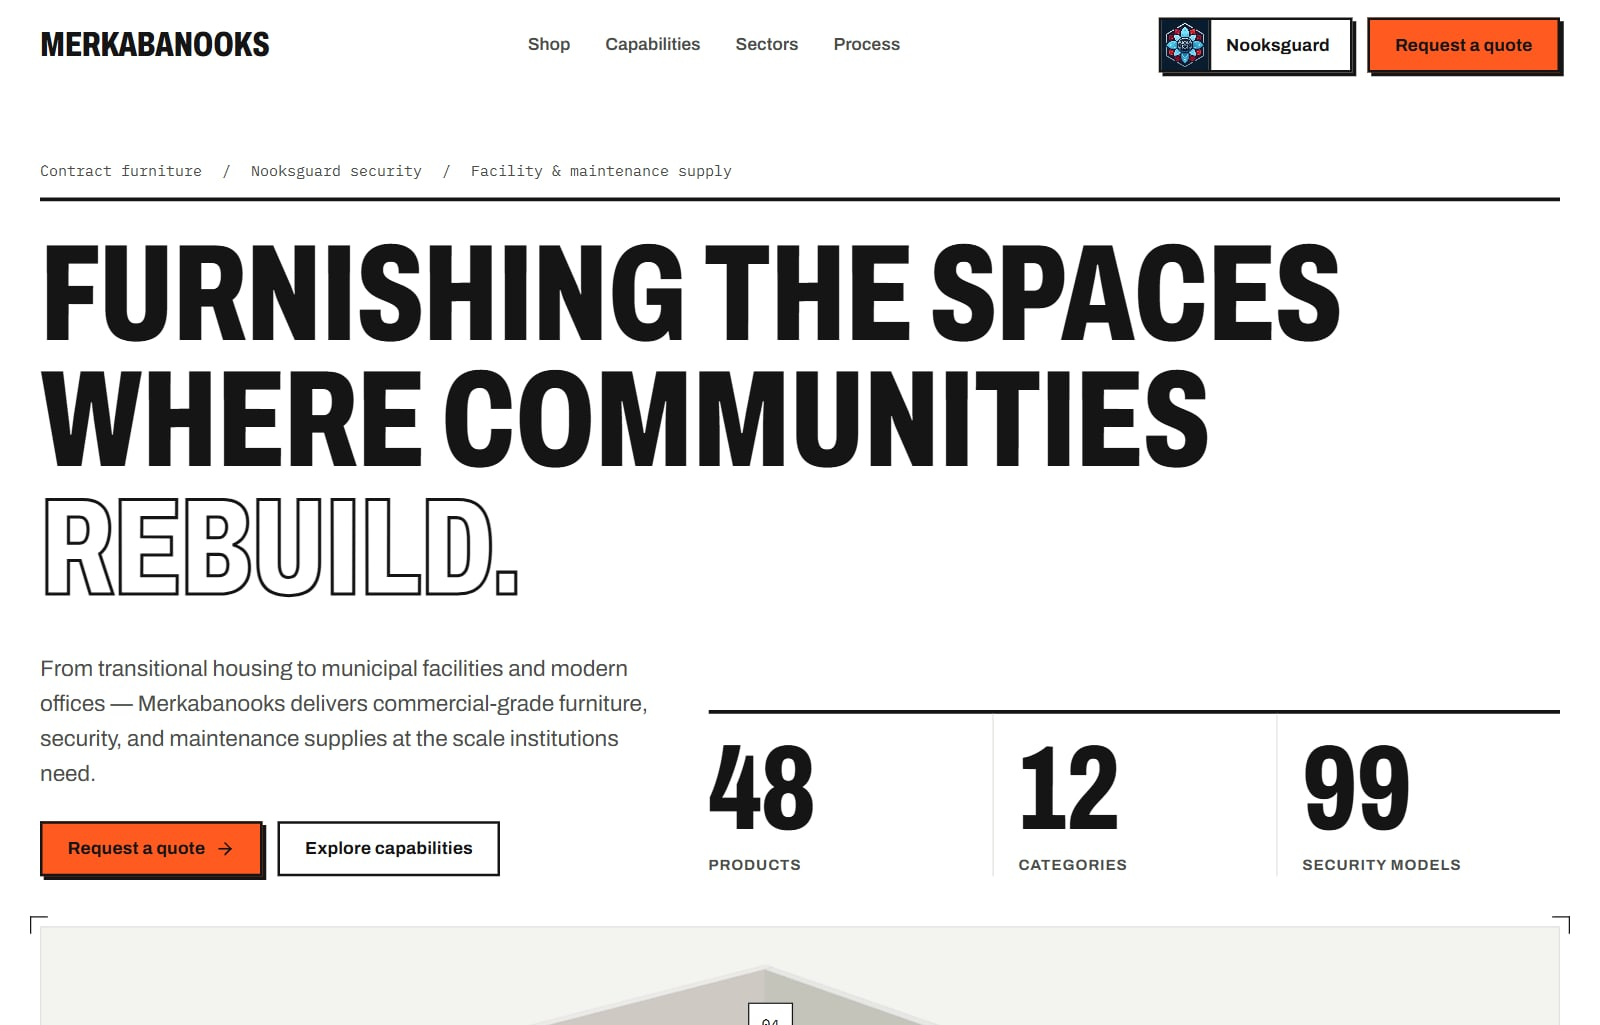
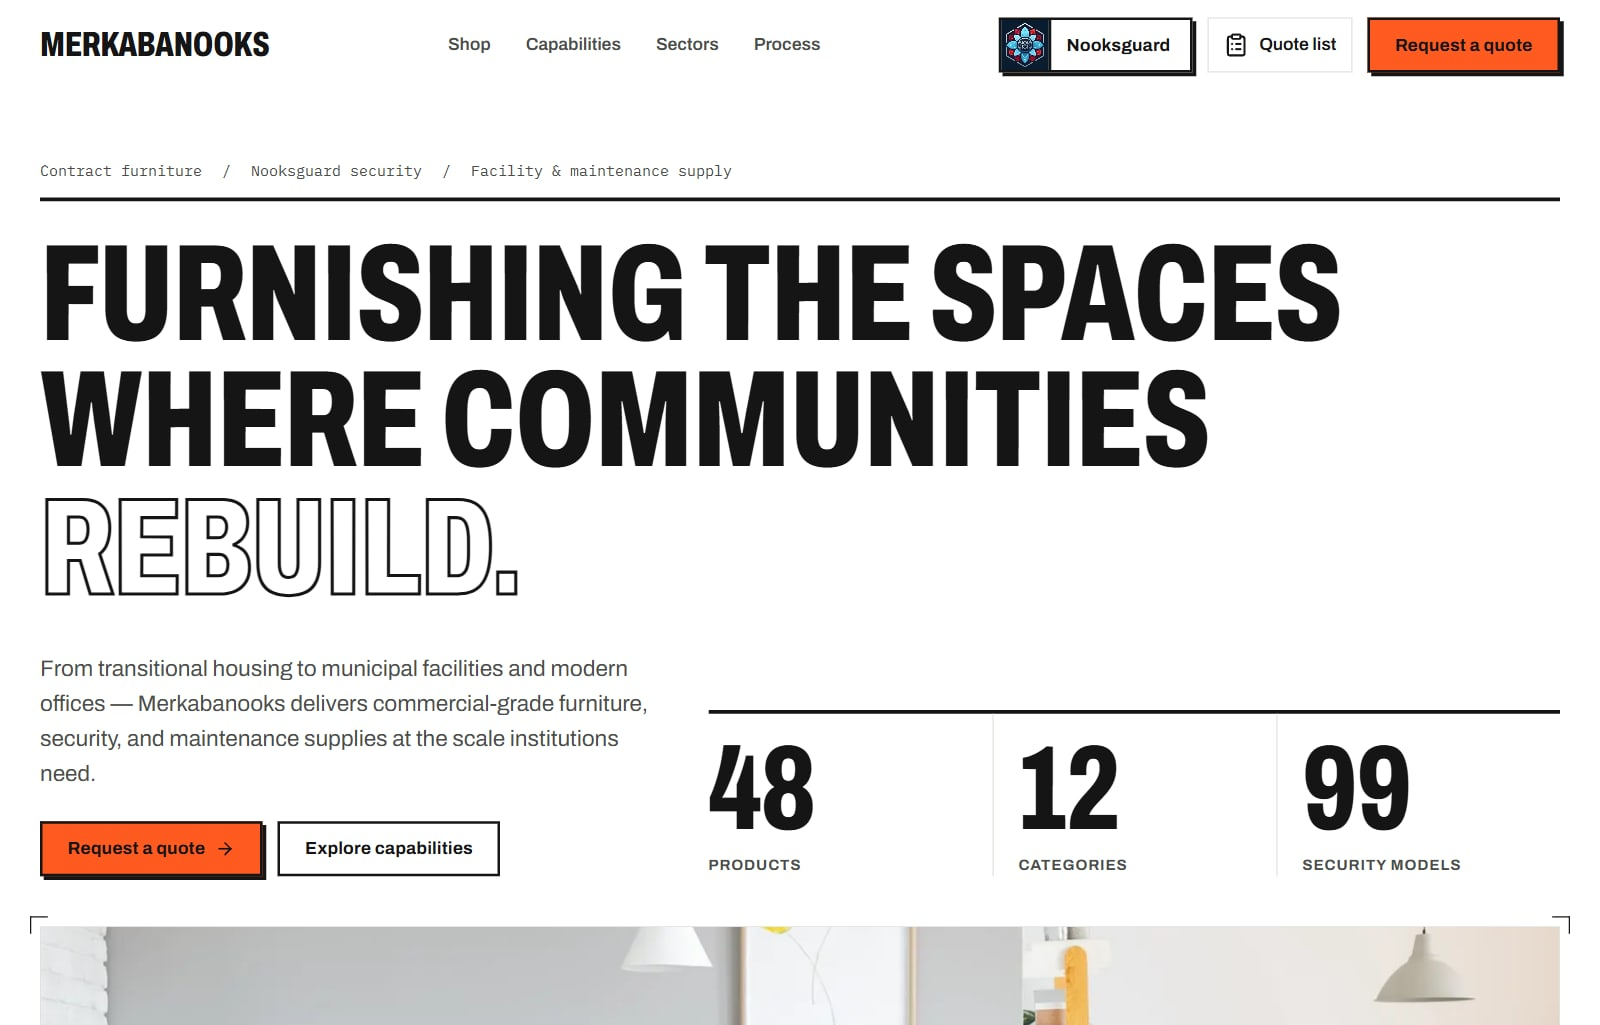
Showcase: interactive room photo replaces the 3D room

diff --git a/index.html b/index.html
@@ -232,7 +232,7 @@
 
     <div class="hero-meta">
       <div class="hero-copy">
-        <p class="lede">A bolder look on a clean white page, a live 3D room, a zoomable view of every real product, real product photos and the complete Nooksguard security catalog. The new site is live now.</p>
+        <p class="lede">A bolder look on a clean white page, an interactive room photo, a zoomable view of every real product, real product photos and the complete Nooksguard security catalog. The new site is live now.</p>
         <a class="btn-live" href="https://merkabanooks.vercel.app" target="_blank" rel="noopener">Visit the live site <span aria-hidden="true">→</span></a>
         <span class="mono live-url">merkabanooks.vercel.app</span>
       </div>
@@ -261,7 +261,7 @@
     <div class="track">
       <ul>
         <li><span>Bold white redesign</span></li>
-        <li><span>Live 3D room</span></li>
+        <li><span>Interactive room photo</span></li>
         <li><span>Zoom into every product</span></li>
         <li><span>33 real product photos</span></li>
         <li><span>12 Nooksguard families</span></li>
@@ -269,7 +269,7 @@
       </ul>
       <ul aria-hidden="true">
         <li><span>Bold white redesign</span></li>
-        <li><span>Live 3D room</span></li>
+        <li><span>Interactive room photo</span></li>
         <li><span>Zoom into every product</span></li>
         <li><span>33 real product photos</span></li>
         <li><span>12 Nooksguard families</span></li>
@@ -298,13 +298,13 @@
         </div>
       </article>
       <article class="tile">
-        <button class="shot" type="button" data-enlarge="room.jpg" data-title="Live 3D room" data-caption="Six real catalog products in a furnished unit. Turn it, tap a number, and the real product opens up close.">
-          <img src="room.jpg" alt="The 3D room with numbered callouts over a bed, nightstand, dresser, wardrobe, desk and chair" width="1600" height="1025">
+        <button class="shot" type="button" data-enlarge="room.jpg" data-title="Interactive room photo" data-caption="A real room photo with numbered pieces. Point at one and it lights up with the matching catalog item and price; tap it to open the product up close. Drag to look around.">
+          <img src="room.jpg" alt="The home-page room photo with the sofa highlighted in orange corner marks and a card showing the matching Track-Arm Upholstered Sofa at $549 per unit" width="1600" height="1025">
           <span class="enlarge">Enlarge</span>
         </button>
         <div class="tile-body">
-          <h3 class="display">Live 3D room</h3>
-          <p>Six real catalog products in a furnished unit. Turn it, tap a number, and the real product opens up close.</p>
+          <h3 class="display">Interactive room photo</h3>
+          <p>A real room photo with numbered pieces. Point at one and it lights up with the matching catalog item and price; tap it to open the product up close. Drag to look around.</p>
         </div>
       </article>
       <article class="tile">
